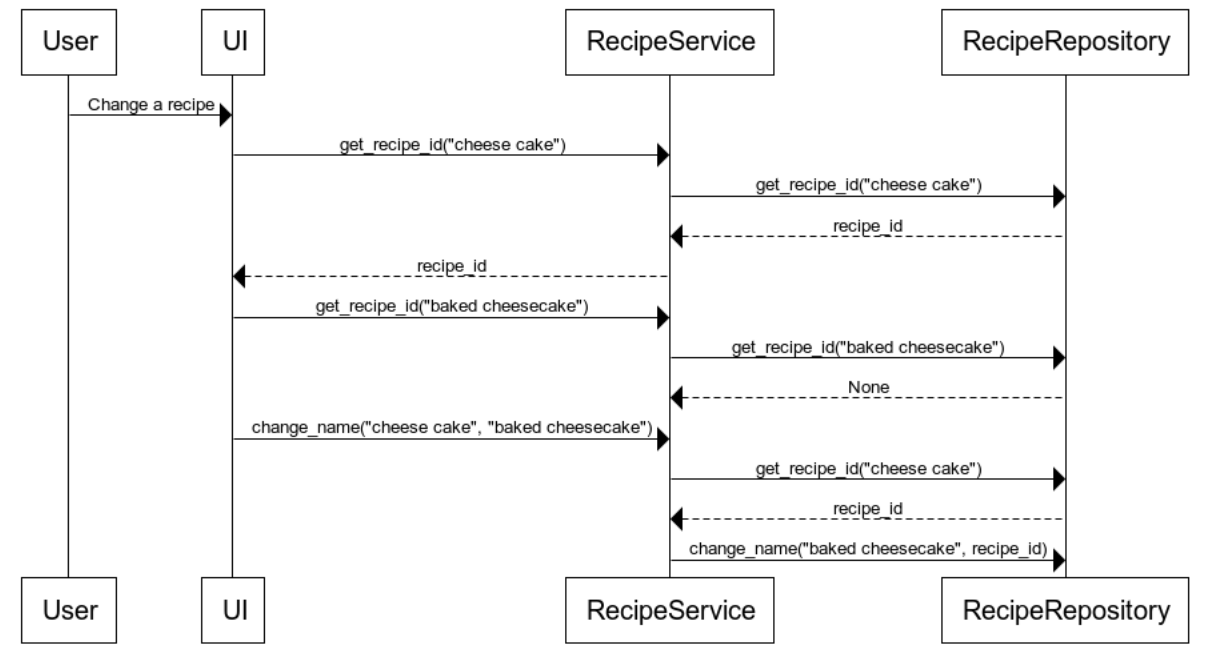
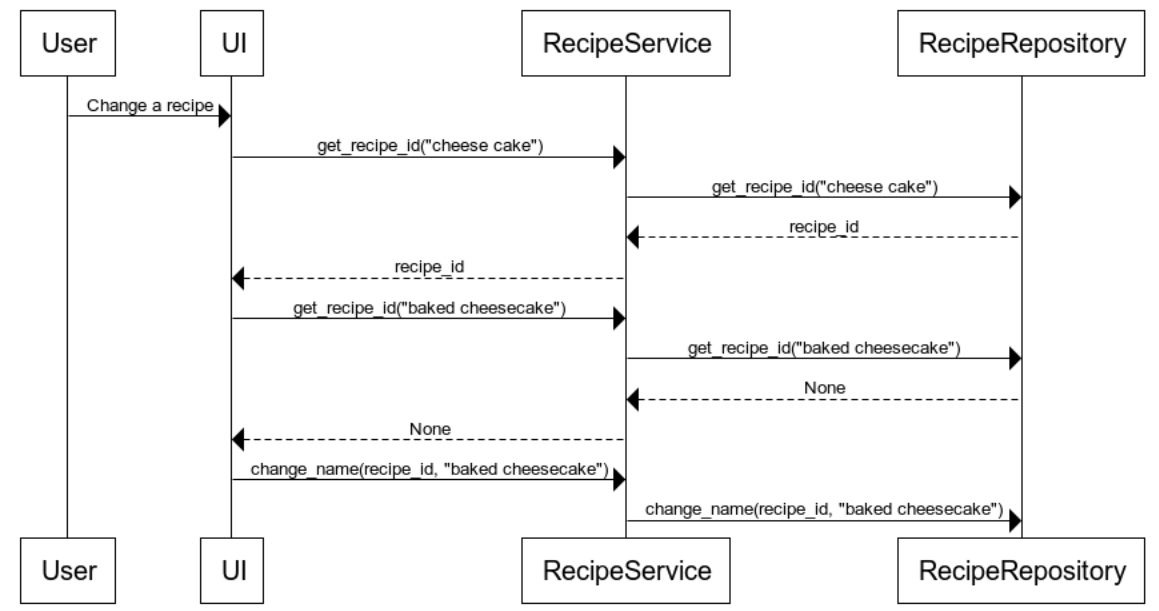
muutos nimen muuttamiseen

Changed region(s): [[0.0, 0.0, 0.994, 0.9951]]

diff --git a/src/ui/change_recipe_view.py b/src/ui/change_recipe_view.py
@@ -60,22 +60,22 @@ class ChangeRecipeView:
                         comment_label.grid(row=0, column=1, sticky=constants.W, padx=5, pady=5)
                     else:
                         new_name = self._new_name_entry.get()
-                        recipe_id = self.recipe_service.get_recipe_id(new_name)
+                        new_recipe_id = self.recipe_service.get_recipe_id(new_name)
                         if new_name == "":
                             comment_label = ttk.Label(master=self._frame, text="New name cannot be empty. Please change the name.")
                             comment_label.grid(row=0, column=1, sticky=constants.W, padx=5, pady=5)
-                        elif recipe_id is not None:
+                        elif new_recipe_id is not None:
                             comment_label = ttk.Label(master=self._frame, text=f"New name '{new_name}' exists already. Please change the name.")
                             comment_label.grid(row=0, column=1, sticky=constants.W, padx=5, pady=5)
                         else:
                             if self.change_url.get() == 0 and self.change_name.get() == 1:
-                                self.recipe_service.change_name(name, new_name)
+                                self.recipe_service.change_name(recipe_id, new_name)
                                 comment_label = ttk.Label(master=self._frame, text="Name changed.")
                                 comment_label.grid(row=0, column=1, sticky=constants.W, padx=5, pady=5)
                             else:
                                 new_url = self._new_url_entry.get()
                                 self.recipe_service.change_url(name, new_url)
-                                self.recipe_service.change_name(name, new_name)
+                                self.recipe_service.change_name(recipe_id, new_name)
                                 comment_label = ttk.Label(master=self._frame, text="Name and URL changed.")
                                 comment_label.grid(row=0, column=1, sticky=constants.W, padx=5, pady=5)
             else:

diff --git a/src/services/recipe_service.py b/src/services/recipe_service.py
@@ -114,15 +114,14 @@ class RecipeService:
         recipe_id = self._repository.get_recipe_id(name)
         self._repository.change_url(new_url, recipe_id)
 
-    def change_name(self, name, new_name):
+    def change_name(self, recipe_id, new_name):
         """Muuttaa reseptin nimeä.
 
         Args:
             name: Merkkijonoarvo, joka kuvaa reseptin nimeä.
             new_name: Merkkijonoarvo, joka kuvaa reseptin uutta nimeä.
         """
-        recipe_id = self._repository.get_recipe_id(name)
-        self._repository.change_name(new_name, recipe_id)
+        self._repository.change_name(recipe_id, new_name)
 
     def list_by_category(self, name):
         """Palauttaa valitun kategorian reseptit.

diff --git a/src/repositories/recipe_repository.py b/src/repositories/recipe_repository.py
@@ -179,7 +179,7 @@ class RecipeRepository:
         cursor = self._connection.cursor()
         cursor.execute("UPDATE Recipe SET url = (?) WHERE id = (?)", (new_url, recipe_id))
 
-    def change_name(self, new_name, recipe_id):
+    def change_name(self, recipe_id, new_name):
         """Muuttaa reseptin nimeä.
 
         Args:

diff --git a/dokumentaatio/arkkitehtuuri.md b/dokumentaatio/arkkitehtuuri.md
@@ -70,9 +70,8 @@ Käyttöliittymä pyytää RecipeServiceä hakemaan reseptin id:n RecipeReposito
 Samalla se selvittää, onko varmasti olemassa sen niminen resepti, jota käyttäjä yrittää muuttaa.
 Esimerkissä käyttäjä on valinnut muuttaa reseptin nimeä.
 Käyttöliittymä pyytää reseptin id:tä uudella nimellä ja varmistaa tällä tavalla, ettei saman nimistä reseptiä ole jo olemassa.
-Kun kaikki on kunnossa, käyttöliittymä lähettää vanhan ja uuden reseptin nimen RecipeServicelle.
-RecipeService pyytää vielä uudelleen vanhan reseptin id:n,
-ja RecipeRepository muuttaa nimen uudeksi id:n perusteella.
+Kun kaikki on kunnossa, käyttöliittymä lähettää alkuperäisen id:n ja uuden reseptin nimen RecipeServicelle,
+jonka jälkeen RecipeRepository muuttaa nimen uudeksi id:n perusteella.
 
 ## Ohjelman rakenteeseen jääneet heikkoudet
 
